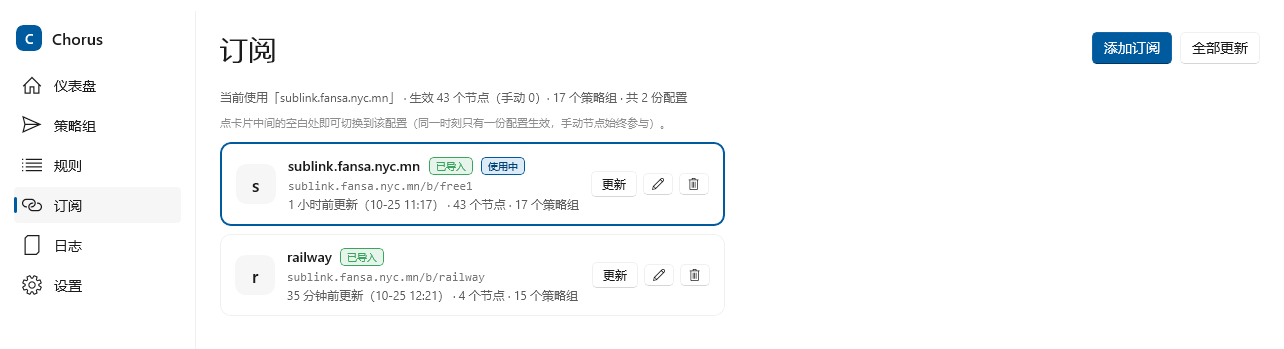
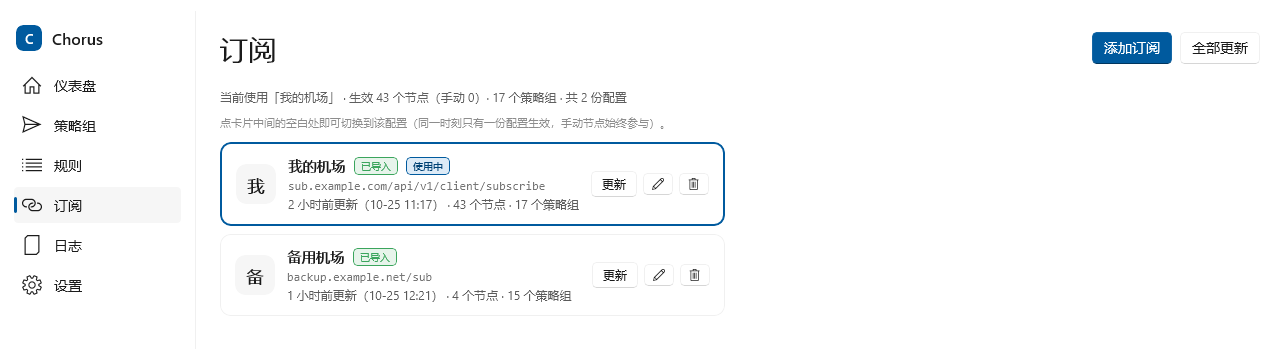
docs+chore: 截图脱敏订阅链接；加单测与发布校验，锁住「干净安装包」
- 截图：8 张全部重拍，订阅名与链接临时换成 example.com 示例值，拍完把
  settings.json 还原（字节校验一致），图片里不再出现真实订阅地址；
  策略组状态条、规则页「规则来自订阅「…」」等处也一并脱敏。
- 单测 SafeDefaultsTests（5 例）：新装时没有订阅、没有节点/策略组、
  系统代理 / TUN / 局域网全关、默认设置序列化后不含任何 http(s) 网址；
  没有节点时生成配置明确报错而不是产出空配置。共 84 例。
- release.yml：打包前新增校验步骤，发布包若混入 settings.json / config.json /
  crash.log / cache.db / 非预期 json 或缺少 core/sing-box.exe 就直接失败。
  （已在本地用 dist/app17 与人为混入 settings.json 的副本各验一遍）
- README：说明首次运行是干净的、设置存在 %LOCALAPPDATA% 不在安装目录、
  卸载删目录即可清干净；单测数改为 84。

diff --git a/tests/Chorus.Core.Tests/SafeDefaultsTests.cs b/tests/Chorus.Core.Tests/SafeDefaultsTests.cs
@@ -1,0 +1,67 @@
+using System.Text.Json;
+using System.Text.Json.Nodes;
+using Chorus.Core.Configuration;
+using Chorus.Core.Models;
+using Xunit;
+
+namespace Chorus.Core.Tests;
+
+/// <summary>
+/// 新装（%LOCALAPPDATA% 里没有 settings.json）时的默认值必须是「干净」的：
+/// 不带任何订阅、不带节点、不自动开系统代理 / TUN / 局域网。
+/// 这几条是发布包的对外承诺，改动默认值会让用户一装上就被代理或看到别人的订阅，故锁死。
+/// </summary>
+public class SafeDefaultsTests
+{
+    [Fact]
+    public void 新装默认没有任何订阅()
+    {
+        var settings = new AppSettings();
+
+        Assert.Empty(settings.Subscriptions);
+        Assert.Null(settings.ActiveSubscriptionUrl);
+        Assert.Null(settings.ActiveSubscription());
+        Assert.Empty(settings.EffectiveSubscriptions());
+        Assert.Empty(settings.EffectiveNodes());
+        Assert.Empty(settings.EffectiveGroups());
+    }
+
+    [Fact]
+    public void 新装默认不开启系统代理与TUN()
+    {
+        var settings = new AppSettings();
+
+        Assert.False(settings.EnableSystemProxy);
+        Assert.False(settings.EnableTun);
+        Assert.False(settings.AllowLan);
+    }
+
+    [Fact]
+    public void 新装默认没有手动节点与策略组()
+    {
+        var settings = new AppSettings();
+
+        Assert.Empty(settings.Profile.Nodes);
+        Assert.Empty(settings.Profile.Groups);
+    }
+
+    [Fact]
+    public void 默认设置序列化后不含任何网址()
+    {
+        var json = JsonSerializer.Serialize(new AppSettings());
+        var node = JsonNode.Parse(json)!;
+
+        Assert.DoesNotContain("http://", json, StringComparison.OrdinalIgnoreCase);
+        Assert.DoesNotContain("https://", json, StringComparison.OrdinalIgnoreCase);
+        Assert.Empty(node["Subscriptions"]!.AsArray());
+    }
+
+    [Fact]
+    public void 没有节点时生成配置会明确报错而不是产出空配置()
+    {
+        var settings = new AppSettings();
+        var ex = Assert.Throws<InvalidOperationException>(() => ConfigGenerator.BuildWithReport(settings));
+
+        Assert.Contains("没有可用节点", ex.Message);
+    }
+}

diff --git a/README.md b/README.md
@@ -89,7 +89,7 @@ DNS 服务器与 DNS 规则：
 | MVVM | CommunityToolkit.Mvvm 8.4 |
 | 托盘 | H.NotifyIcon.WinUI |
 | 核心 | sing-box ≥ 1.12（CI 打包最新稳定版，位于 `core\sing-box.exe`） |
-| 测试 | xUnit（79 个用例，`Chorus.Core` 跨平台可跑） |
+| 测试 | xUnit（84 个用例，`Chorus.Core` 跨平台可跑） |
 
 ## 目录结构
 
@@ -137,9 +137,10 @@ Chorus/
 
 1. 从 [Releases](https://github.com/fansa92/Chorus/releases) 下载并解压 `Chorus-win-x64.zip`（**已内置官方 sing-box 核心**，位于 `core\sing-box.exe`，构建时自动打包最新稳定版）。
 2. 启动应用 → 侧边栏「订阅」页添加订阅链接（支持多个，点卡片可切换当前使用的配置）→ 仪表盘打开开关。
-3. 也可以在设置页手动粘贴分享链接补充节点；手动节点会附加到当前选中的订阅上。
-4. 设置与节点保存在 `%LOCALAPPDATA%\Chorus\settings.json`，日志在 `%LOCALAPPDATA%\Chorus\crash.log`（异常才写）。
-5. 想换核心版本：替换 `core\sing-box.exe`，或把新版放到 `%LOCALAPPDATA%\Chorus\core\`（优先读便携目录）。
+3. **首次运行是干净的**：安装包里不带任何订阅链接，`系统代理` / `TUN` / `允许局域网` 全部默认关闭，代理只在你手动打开开关后才生效。
+4. 也可以在设置页手动粘贴分享链接补充节点；手动节点会附加到当前选中的订阅上。
+5. 设置与节点保存在 `%LOCALAPPDATA%\Chorus\settings.json`（**不在安装目录里**，升级/换包不会把订阅信息带进发布包；卸载时删掉该目录即可清干净），日志在 `%LOCALAPPDATA%\Chorus\crash.log`（异常才写）。
+6. 想换核心版本：替换 `core\sing-box.exe`，或把新版放到 `%LOCALAPPDATA%\Chorus\core\`（优先读便携目录）。
    注意：应用要求 sing-box **1.12 或更高版本**（配置使用新版 DNS 服务器格式；CI 打包时自动下载最新稳定版）。
 
 ### 自定义策略组
